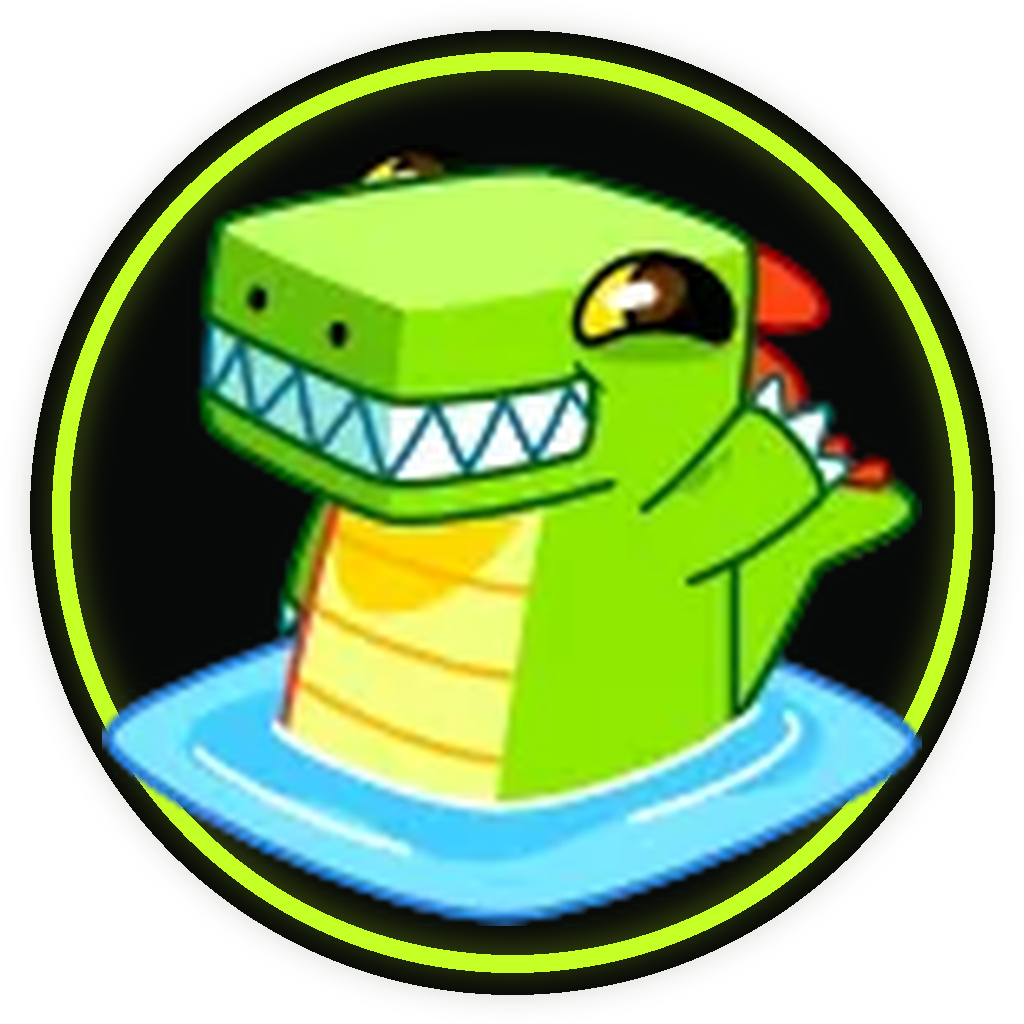
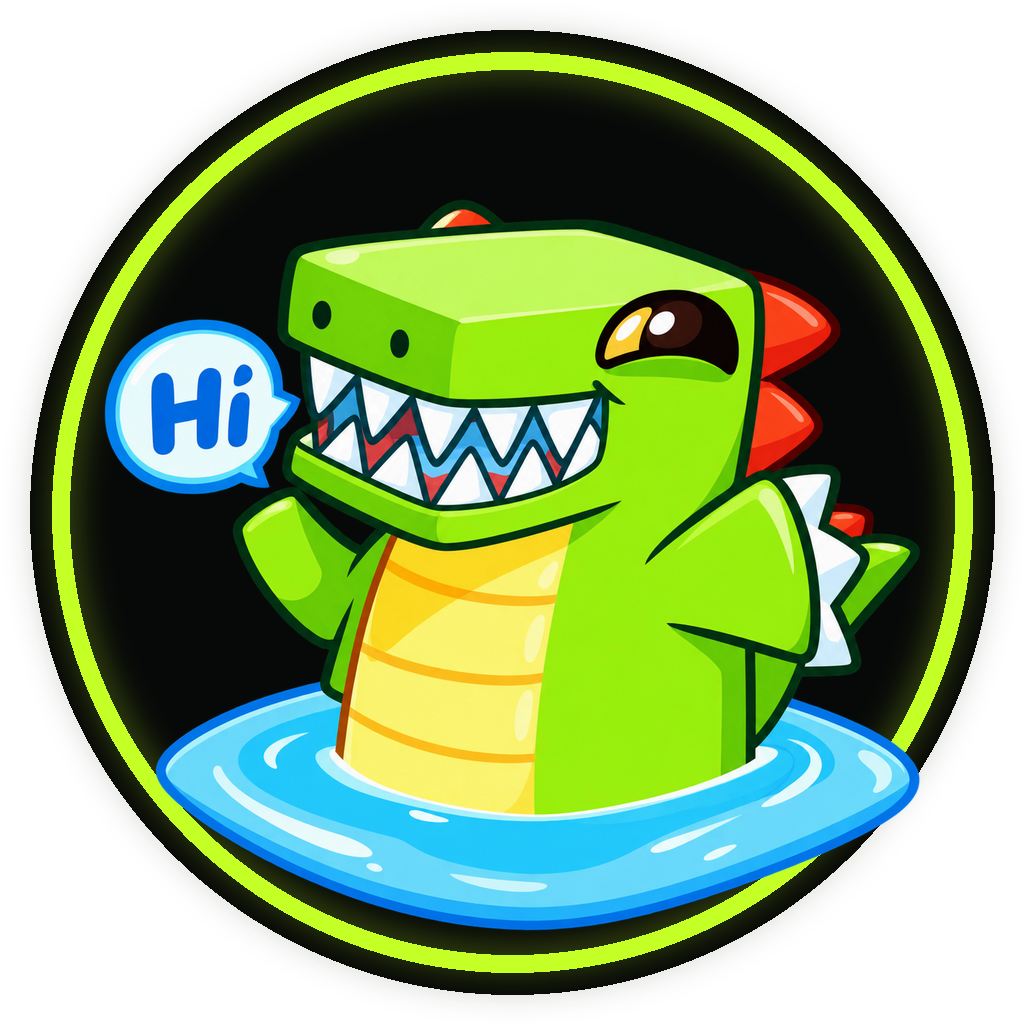
Upgrade Cubigator artwork to HD

diff --git a/tools/welcome-videos/build_avatar.py b/tools/welcome-videos/build_avatar.py
@@ -1,9 +1,4 @@
-"""Build the Telegram profile image from the official Cubigator sticker.
-
-Source: https://t.me/addstickers/crocosaurus, greeting sticker.
-The source preview is animated WebP. Frame 24 keeps the character readable in
-Telegram's small circular crop while preserving the original sticker artwork.
-"""
+"""Build the Telegram profile image from the high-resolution Cubigator master."""
 
 from pathlib import Path
 
@@ -11,15 +6,13 @@ from PIL import Image, ImageDraw, ImageFilter
 
 
 ROOT = Path(__file__).resolve().parents[2]
-SOURCE = ROOT / "tools/welcome-videos/public/cubigator-wave.webp"
+SOURCE = ROOT / "services/crm/static/brand/cubigator-wave.png"
 OUTPUT = ROOT / "services/welcome/assets/gramlyhello-avatar.png"
 VIDEO_COPY = ROOT / "tools/welcome-videos/public/cubigator-avatar.png"
 
 
 def build_avatar() -> Image.Image:
-    sticker = Image.open(SOURCE)
-    sticker.seek(24)
-    sticker = sticker.convert("RGBA")
+    sticker = Image.open(SOURCE).convert("RGBA")
 
     canvas = Image.new("RGBA", (1024, 1024), (0, 0, 0, 0))
     draw = ImageDraw.Draw(canvas)
@@ -32,7 +25,7 @@ def build_avatar() -> Image.Image:
     draw = ImageDraw.Draw(canvas)
     draw.ellipse((52, 52, 972, 972), outline="#c4ff26", width=18)
 
-    # Keep the original proportions and place the greeting hand inside the crop.
+    # Keep the full greeting silhouette inside Telegram's circular crop.
     bbox = sticker.getbbox()
     sticker = sticker.crop(bbox)
     scale = min(820 / sticker.width, 820 / sticker.height)
